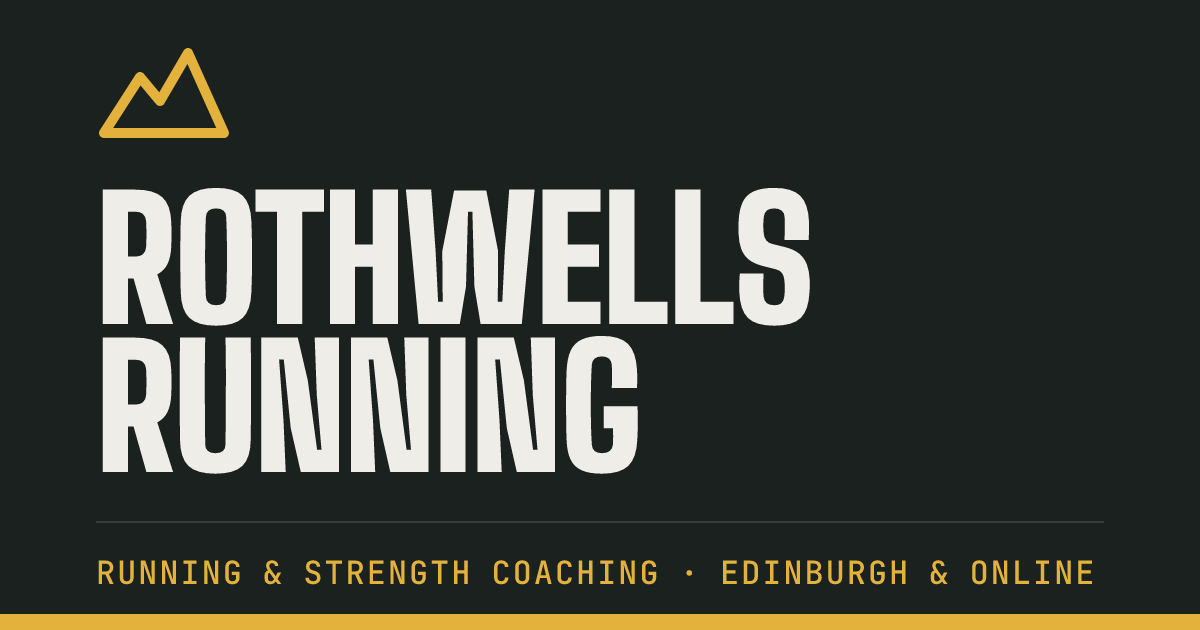
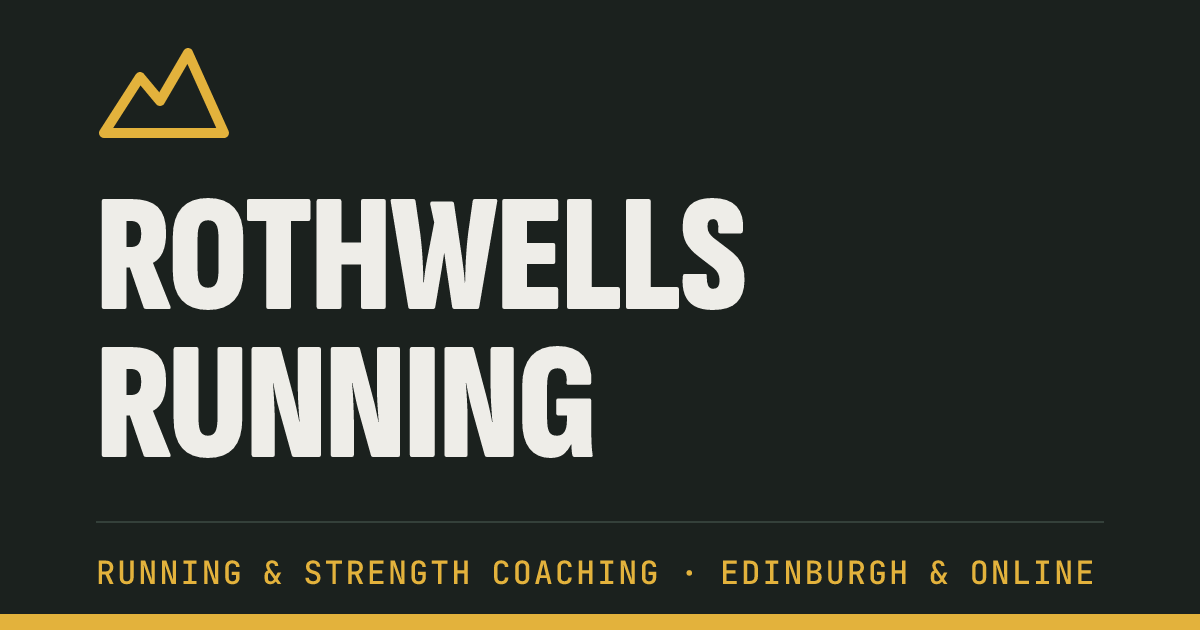
Switch headings to Sofia Sans Extra Condensed

Changed region(s): [[0.0617, 0.3016, 0.6783, 0.754]]

diff --git a/src/styles/global.css b/src/styles/global.css
@@ -30,7 +30,7 @@
   /* Edges of form fields and outline buttons: at least 3:1 so they're easy to see. */
   --field-edge: color-mix(in srgb, var(--stone) 60%, var(--ink-2));
 
-  --font-display: 'Big Shoulders Display', Impact, 'Arial Narrow', sans-serif;
+  --font-display: 'Sofia Sans Extra Condensed', Impact, 'Arial Narrow', sans-serif;
   --font-body: 'Figtree Variable', Figtree, system-ui, sans-serif;
   --font-mono: 'JetBrains Mono', ui-monospace, Consolas, monospace;
 
@@ -138,7 +138,7 @@ a {
   font-family: var(--font-display);
   text-transform: uppercase;
   line-height: 0.88;
-  letter-spacing: -0.01em;
+  letter-spacing: 0.02em;
   font-weight: 900;
   margin: 0;
   text-wrap: balance;

diff --git a/src/admin/admin.css b/src/admin/admin.css
@@ -727,6 +727,7 @@ fieldset.box legend {
 .site-post h2 {
   font-family: var(--font-display);
   text-transform: uppercase;
+  letter-spacing: 0.02em;
   font-size: 30px;
   line-height: 1;
   margin: 32px 0 10px;

diff --git a/AGENTS.md b/AGENTS.md
@@ -20,7 +20,7 @@ Pre-launch. The site is previewed on **GitHub Pages** so Peter can review it. No
 
 - Direction "Pentlands": dark granite greens (`--granite #1b211e`), chalk light sections (`--chalk #eeede8`), one accent, gorse yellow (`--gorse #e3b23c`). Use the tokens in `global.css`, never new literal colours.
 - Light/dark mode (sun/moon button, `ThemeToggle.astro`): dark is the default. Light mode (`html[data-theme="light"]`) swaps the surface tokens (`--granite`, `--granite-2`, `--panel`, `--line`, `--muted`, `--muted-2`, `--chalk`, `--accent`), so granite sections turn light; `.light` sections and the gorse `.footer` keep their colours. Use the surface tokens in granite sections, `--accent` (not `--gorse`) for gorse text and icons, and the fixed `--ink`/`--paper` where a colour must never change (e.g. text on gorse). Check contrast in both modes.
-- Fonts (self-hosted via Fontsource): Big Shoulders Display (uppercase headings), Figtree (body), JetBrains Mono (small uppercase labels).
+- Fonts (self-hosted via Fontsource): Sofia Sans Extra Condensed (uppercase headings), Figtree (body), JetBrains Mono (small uppercase labels).
 - On desktop (> 900px wide), the first screen (hero + week strip) and the "Ways to train" section each fill exactly one screen. Check any change near them at 1920×929, 1440×900 and 1366×768.
 - Must work at 375px wide with no sideways scrolling.
 - Respect `prefers-reduced-motion`. Keep JavaScript minimal.
